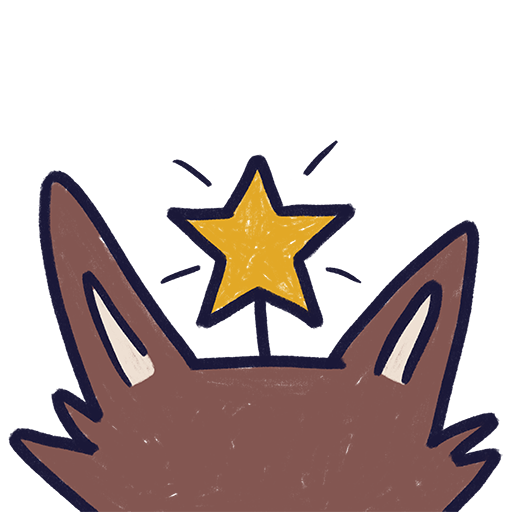
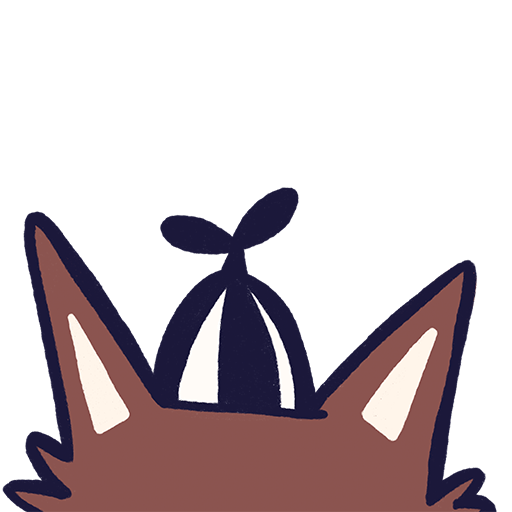
chore: remove christmas styling

Changed region(s): [[0.0, 0.2812, 1.0, 1.0], [0.5938, 0.2812, 0.6562, 0.3438], [0.3438, 0.3125, 0.4062, 0.375]]

diff --git a/unocss.config.ts b/unocss.config.ts
@@ -6,21 +6,6 @@ const control =
 
 export default defineConfig({
   theme: {
-    colors: {
-      primary: {
-        DEFAULT: "#146C3A",
-        "50": "#9CEDBF",
-        "100": "#8BEAB4",
-        "200": "#69E39E",
-        "300": "#46DD87",
-        "400": "#27D371",
-        "500": "#21B15F",
-        "600": "#1A8E4C",
-        "700": "#146C3A",
-        "800": "#0B3D21",
-        "900": "#020D07",
-      },
-    },
     fontFamily: {
       heading: `Henrietta,${theme.fontFamily!.sans}`,
       "heading-condensed": `Henrietta Condensed,${theme.fontFamily!.sans}`,
@@ -28,8 +13,8 @@ export default defineConfig({
   },
   shortcuts: {
     box: "rounded-md bg-white p-4 shadow-sm dark:bg-gray-800",
-    button: `${control} bg-primary-600 font-500 hover:bg-primary-700 focus:ring-primary-600 inline-flex items-center justify-center whitespace-nowrap border-transparent text-white focus:ring-2 focus:ring-offset-2 disabled:cursor-default disabled:border-gray-100 disabled:bg-gray-100 disabled:text-gray-500 disabled:hover:bg-gray-100 dark:focus:ring-offset-gray-900`,
-    input: `${control} focus:border-primary-600 focus:ring-primary-600 w-full border-gray-300 bg-white placeholder-gray-400 focus:ring disabled:border-gray-100 disabled:bg-gray-100 disabled:text-gray-500 dark:border-gray-500 dark:bg-gray-800`,
+    button: `${control} bg-amber-600 font-500 hover:bg-amber-700 focus:ring-amber-600 inline-flex items-center justify-center whitespace-nowrap border-transparent text-white focus:ring-2 focus:ring-offset-2 disabled:cursor-default disabled:border-gray-100 disabled:bg-gray-100 disabled:text-gray-500 disabled:hover:bg-gray-100 dark:focus:ring-offset-gray-900`,
+    input: `${control} focus:border-amber-600 focus:ring-amber-600 w-full border-gray-300 bg-white placeholder-gray-400 focus:ring disabled:border-gray-100 disabled:bg-gray-100 disabled:text-gray-500 dark:border-gray-500 dark:bg-gray-800`,
     "icon-inline":
       "relative bottom-[0.125em] inline-block h-[1em] w-[1em] select-none fill-current text-current",
   },

diff --git a/src/App.vue b/src/App.vue
@@ -18,14 +18,14 @@ watchThrottled(now, tryReset, { immediate: true, throttle: 1000 });
     <AppThemeToggle />
   </div>
 
-  <div
+  <!-- <div
     class="content-empty christmas-pattern -z-1 pointer-events-none absolute inset-0"
-  />
+  /> -->
 </template>
 
 <style scoped>
 .christmas-pattern {
-  background-image: url(/images/christmas-knit-pattern-1.svg);
+  background-image: url(/images/christmas/knit-pattern-1.svg);
   background-position: center calc(100% - 0.5rem);
   background-repeat: repeat-x;
   background-size: auto 1.5rem, auto 1rem;

diff --git a/src/components/App/Message.vue b/src/components/App/Message.vue
@@ -21,7 +21,7 @@ defineProps<{
           size === 'default' &&
             'rounded-full bg-gray-800 px-4 py-2 text-white dark:bg-white dark:text-gray-800',
           size === 'large' &&
-            'border-primary-800 rounded-xl border-2 bg-white p-6 text-gray-800',
+            'rounded-xl border-2 border-amber-800 bg-white p-6 text-gray-800',
         ]"
       >
         <div class="space-y-6 text-center">

diff --git a/src/components/App/Header.vue b/src/components/App/Header.vue
@@ -3,7 +3,7 @@
     class="header sticky top-4 z-10 rounded-lg bg-zinc-100 px-4 py-2 dark:bg-zinc-800"
   >
     <h1
-      class="font-heading text-primary-700 text-2xl tracking-wide dark:text-white"
+      class="font-heading text-2xl tracking-wide text-amber-700 dark:text-white"
     >
       {{ $t("title") }}
     </h1>

diff --git a/src/components/Game/Board.vue b/src/components/Game/Board.vue
@@ -258,7 +258,7 @@ function genResultGrid() {
     <h2
       :class="[
         state.gameOver
-          ? 'text-primary-700 font-heading text-2xl leading-tight tracking-wide'
+          ? 'text-amber-700 font-heading text-2xl leading-tight tracking-wide'
           : 'text-sm font-600 truncate',
       ]"
     >

diff --git a/index.html b/index.html
@@ -15,7 +15,7 @@
       type="font/woff2"
       crossorigin
     />
-    <meta name="theme-color" content="#146c3a" />
+    <meta name="theme-color" content="#92400E" />
     <link rel="manifest" href="/manifest.webmanifest" />
     <title>Wortspiel</title>
     <script>

diff --git a/src/main.css b/src/main.css
@@ -18,7 +18,7 @@
 
 html {
   min-width: 320px;
-  --at-apply: bg-primary-800 text-gray-800;
+  --at-apply: bg-amber-800 text-gray-800;
 }
 
 html.dark {
